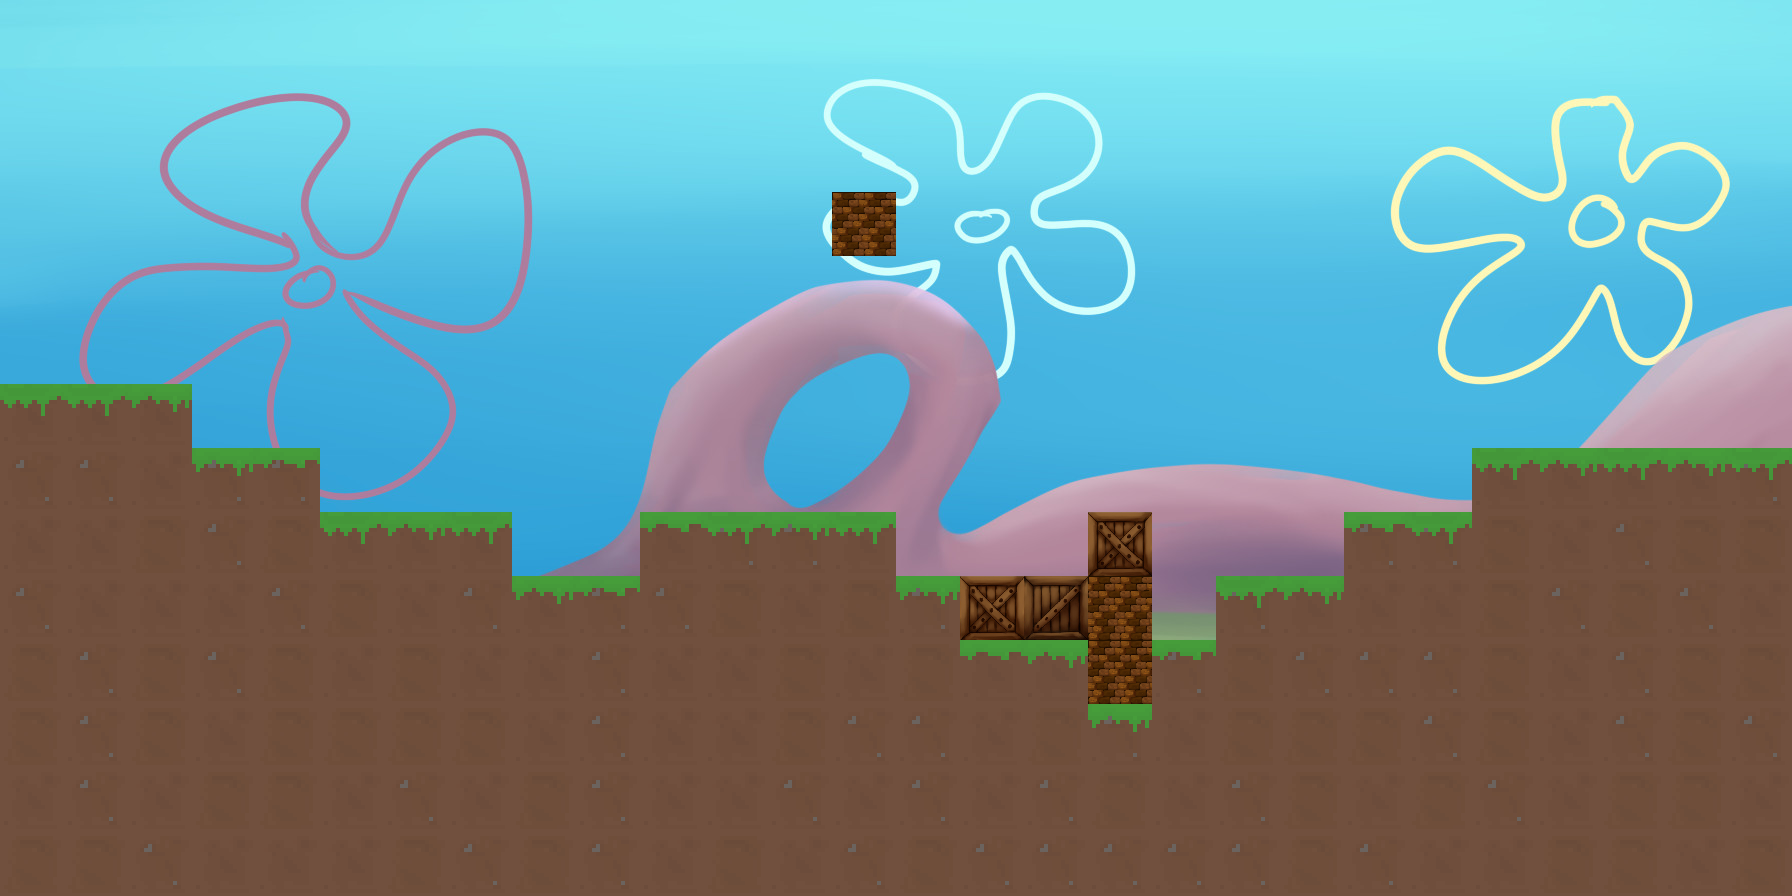
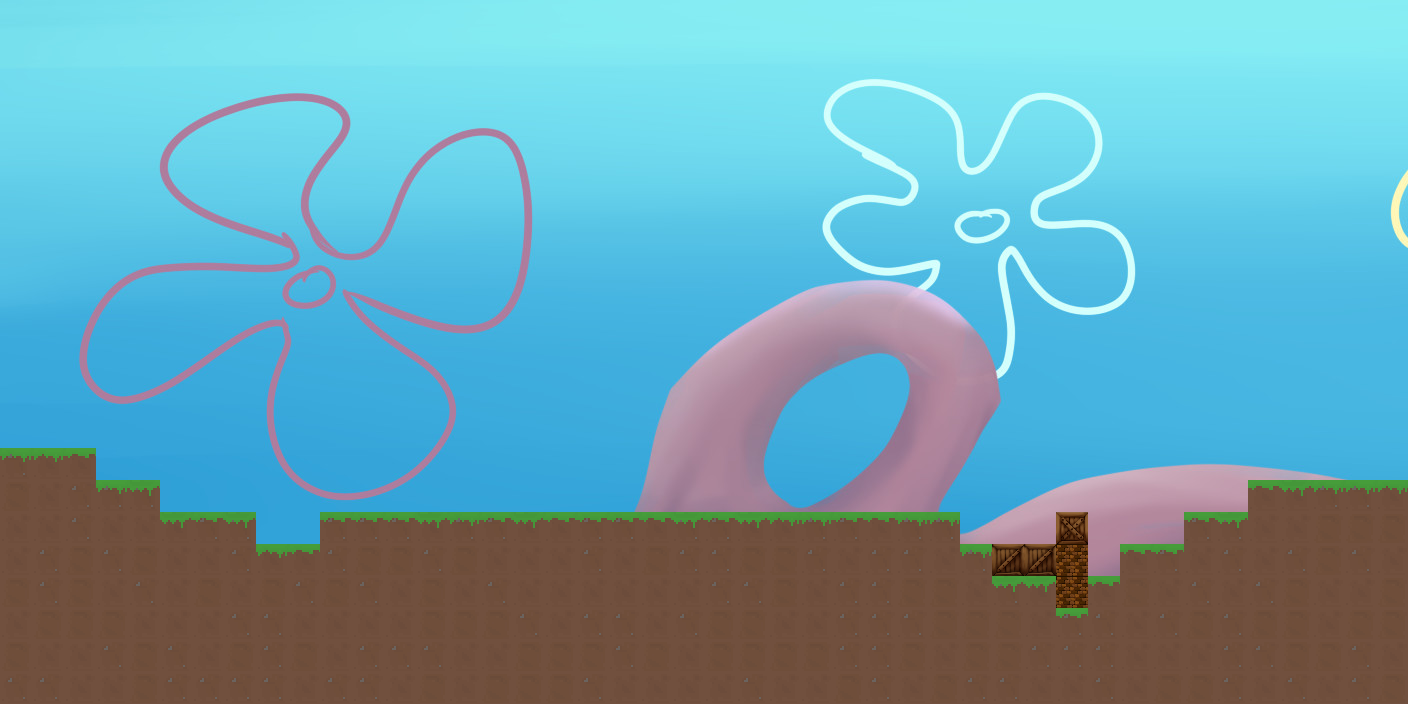
update(render): change map's size

diff --git a/resources/levels/1/map.py b/resources/levels/1/map.py
@@ -1,20 +1,27 @@
 players = {
-    1: (5, 0),
-    2: (6, 23)
+    1: (13, 0),
+    2: (14, 40)
 }
 
-layouts = [[0, 0, 0, 0, 0, 0, 0, 0, 0, 0, 0, 0, 0, 0, 0, 0, 0, 0, 0, 0, 0, 0, 0, 0, 0, 0, 0, 0],
-           [0, 0, 0, 0, 0, 0, 0, 0, 0, 0, 0, 0, 0, 0, 0, 0, 0, 0, 0, 0, 0, 0, 0, 0, 0, 0, 0, 0],
-           [0, 0, 0, 0, 0, 0, 0, 0, 0, 0, 0, 0, 0, 0, 0, 0, 0, 0, 0, 0, 0, 0, 0, 0, 0, 0, 0, 0],
-           [0, 0, 0, 0, 0, 0, 0, 0, 0, 0, 0, 0, 0, 3, 0, 0, 0, 0, 0, 0, 0, 0, 0, 0, 0, 0, 0, 0],
-           [0, 0, 0, 0, 0, 0, 0, 0, 0, 0, 0, 0, 0, 0, 0, 0, 0, 0, 0, 0, 0, 0, 0, 0, 0, 0, 0, 0],
-           [0, 0, 0, 0, 0, 0, 0, 0, 0, 0, 0, 0, 0, 0, 0, 0, 0, 0, 0, 0, 0, 0, 0, 0, 0, 0, 0, 0],
-           [2, 2, 2, 0, 0, 0, 0, 0, 0, 0, 0, 0, 0, 0, 0, 0, 0, 0, 0, 0, 0, 0, 0, 0, 0, 0, 0, 0],
-           [1, 1, 1, 2, 2, 0, 0, 0, 0, 0, 0, 0, 0, 0, 0, 0, 0, 0, 0, 0, 0, 0, 0, 2, 2, 2, 2, 2],
-           [1, 1, 1, 1, 1, 2, 2, 2, 0, 0, 2, 2, 2, 2, 0, 0, 0, 4, 0, 0, 0, 2, 2, 1, 1, 1, 1, 1],
-           [1, 1, 1, 1, 1, 1, 1, 1, 2, 2, 1, 1, 1, 1, 2, 4, 4, 3, 0, 2, 2, 1, 1, 1, 1, 1, 1, 1],
-           [1, 1, 1, 1, 1, 1, 1, 1, 1, 1, 1, 1, 1, 1, 1, 2, 2, 3, 2, 1, 1, 1, 1, 1, 1, 1, 1, 1],
-           [1, 1, 1, 1, 1, 1, 1, 1, 1, 1, 1, 1, 1, 1, 1, 1, 1, 2, 1, 1, 1, 1, 1, 1, 1, 1, 1, 1],
-           [1, 1, 1, 1, 1, 1, 1, 1, 1, 1, 1, 1, 1, 1, 1, 1, 1, 1, 1, 1, 1, 1, 1, 1, 1, 1, 1, 1],
-           [1, 1, 1, 1, 1, 1, 1, 1, 1, 1, 1, 1, 1, 1, 1, 1, 1, 1, 1, 1, 1, 1, 1, 1, 1, 1, 1, 1]]
-
+layouts = [[0, 0, 0, 0, 0, 0, 0, 0, 0, 0, 0, 0, 0, 0, 0, 0, 0, 0, 0, 0, 0, 0, 0, 0, 0, 0, 0, 0, 0, 0, 0, 0, 0, 0, 0, 0, 0, 0, 0, 0, 0, 0, 0, 0],
+           [0, 0, 0, 0, 0, 0, 0, 0, 0, 0, 0, 0, 0, 0, 0, 0, 0, 0, 0, 0, 0, 0, 0, 0, 0, 0, 0, 0, 0, 0, 0, 0, 0, 0, 0, 0, 0, 0, 0, 0, 0, 0, 0, 0],
+           [0, 0, 0, 0, 0, 0, 0, 0, 0, 0, 0, 0, 0, 0, 0, 0, 0, 0, 0, 0, 0, 0, 0, 0, 0, 0, 0, 0, 0, 0, 0, 0, 0, 0, 0, 0, 0, 0, 0, 0, 0, 0, 0, 0],
+           [0, 0, 0, 0, 0, 0, 0, 0, 0, 0, 0, 0, 0, 0, 0, 0, 0, 0, 0, 0, 0, 0, 0, 0, 0, 0, 0, 0, 0, 0, 0, 0, 0, 0, 0, 0, 0, 0, 0, 0, 0, 0, 0, 0],
+           [0, 0, 0, 0, 0, 0, 0, 0, 0, 0, 0, 0, 0, 0, 0, 0, 0, 0, 0, 0, 0, 0, 0, 0, 0, 0, 0, 0, 0, 0, 0, 0, 0, 0, 0, 0, 0, 0, 0, 0, 0, 0, 0, 0],
+           [0, 0, 0, 0, 0, 0, 0, 0, 0, 0, 0, 0, 0, 0, 0, 0, 0, 0, 0, 0, 0, 0, 0, 0, 0, 0, 0, 0, 0, 0, 0, 0, 0, 0, 0, 0, 0, 0, 0, 0, 0, 0, 0, 0],
+           [0, 0, 0, 0, 0, 0, 0, 0, 0, 0, 0, 0, 0, 0, 0, 0, 0, 0, 0, 0, 0, 0, 0, 0, 0, 0, 0, 0, 0, 0, 0, 0, 0, 0, 0, 0, 0, 0, 0, 0, 0, 0, 0, 0],
+           [0, 0, 0, 0, 0, 0, 0, 0, 0, 0, 0, 0, 0, 0, 0, 0, 0, 0, 0, 0, 0, 0, 0, 0, 0, 0, 0, 0, 0, 0, 0, 0, 0, 0, 0, 0, 0, 0, 0, 0, 0, 0, 0, 0],
+           [0, 0, 0, 0, 0, 0, 0, 0, 0, 0, 0, 0, 0, 0, 0, 0, 0, 0, 0, 0, 0, 0, 0, 0, 0, 0, 0, 0, 0, 0, 0, 0, 0, 0, 0, 0, 0, 0, 0, 0, 0, 0, 0, 0],
+           [0, 0, 0, 0, 0, 0, 0, 0, 0, 0, 0, 0, 0, 0, 0, 0, 0, 0, 0, 0, 0, 0, 0, 0, 0, 0, 0, 0, 0, 0, 0, 0, 0, 0, 0, 0, 0, 0, 0, 0, 0, 0, 0, 0],
+           [0, 0, 0, 0, 0, 0, 0, 0, 0, 0, 0, 0, 0, 0, 0, 0, 0, 0, 0, 0, 0, 0, 0, 0, 0, 0, 0, 0, 0, 0, 0, 0, 0, 0, 0, 0, 0, 0, 0, 0, 0, 0, 0, 0],
+           [0, 0, 0, 0, 0, 0, 0, 0, 0, 0, 0, 0, 0, 0, 0, 0, 0, 0, 0, 0, 0, 0, 0, 0, 0, 0, 0, 0, 0, 0, 0, 0, 0, 0, 0, 0, 0, 0, 0, 0, 0, 0, 0, 0],
+           [0, 0, 0, 0, 0, 0, 0, 0, 0, 0, 0, 0, 0, 0, 0, 0, 0, 0, 0, 0, 0, 0, 0, 0, 0, 0, 0, 0, 0, 0, 0, 0, 0, 0, 0, 0, 0, 0, 0, 0, 0, 0, 0, 0],
+           [0, 0, 0, 0, 0, 0, 0, 0, 0, 0, 0, 0, 0, 0, 0, 0, 0, 0, 0, 0, 0, 0, 0, 0, 0, 0, 0, 0, 0, 0, 0, 0, 0, 0, 0, 0, 0, 0, 0, 0, 0, 0, 0, 0],
+           [2, 2, 2, 0, 0, 0, 0, 0, 0, 0, 0, 0, 0, 0, 0, 0, 0, 0, 0, 0, 0, 0, 0, 0, 0, 0, 0, 0, 0, 0, 0, 0, 0, 0, 0, 0, 0, 0, 0, 0, 0, 0, 0, 0],
+           [1, 1, 1, 2, 2, 0, 0, 0, 0, 0, 0, 0, 0, 0, 0, 0, 0, 0, 0, 0, 0, 0, 0, 0, 0, 0, 0, 0, 0, 0, 0, 0, 0, 0, 0, 0, 0, 0, 0, 2, 2, 2, 2, 2],
+           [1, 1, 1, 1, 1, 2, 2, 2, 0, 0, 2, 2, 2, 2, 2, 2, 2, 2, 2, 2, 2, 2, 2, 2, 2, 2, 2, 2, 2, 2, 0, 0, 0, 4, 0, 0, 0, 2, 2, 1, 1, 1, 1, 1],
+           [1, 1, 1, 1, 1, 1, 1, 1, 2, 2, 1, 1, 1, 1, 1, 1, 1, 1, 1, 1, 1, 1, 1, 1, 1, 1, 1, 1, 1, 1, 2, 4, 4, 3, 0, 2, 2, 1, 1, 1, 1, 1, 1, 1],
+           [1, 1, 1, 1, 1, 1, 1, 1, 1, 1, 1, 1, 1, 1, 1, 1, 1, 1, 1, 1, 1, 1, 1, 1, 1, 1, 1, 1, 1, 1, 1, 2, 2, 3, 2, 1, 1, 1, 1, 1, 1, 1, 1, 1],
+           [1, 1, 1, 1, 1, 1, 1, 1, 1, 1, 1, 1, 1, 1, 1, 1, 1, 1, 1, 1, 1, 1, 1, 1, 1, 1, 1, 1, 1, 1, 1, 1, 1, 2, 1, 1, 1, 1, 1, 1, 1, 1, 1, 1],
+           [1, 1, 1, 1, 1, 1, 1, 1, 1, 1, 1, 1, 1, 1, 1, 1, 1, 1, 1, 1, 1, 1, 1, 1, 1, 1, 1, 1, 1, 1, 1, 1, 1, 1, 1, 1, 1, 1, 1, 1, 1, 1, 1, 1],
+           [1, 1, 1, 1, 1, 1, 1, 1, 1, 1, 1, 1, 1, 1, 1, 1, 1, 1, 1, 1, 1, 1, 1, 1, 1, 1, 1, 1, 1, 1, 1, 1, 1, 1, 1, 1, 1, 1, 1, 1, 1, 1, 1, 1]]

diff --git a/main.py b/main.py
@@ -12,7 +12,7 @@ def main():
     clock = pg.time.Clock()
 
     level = 1
-    turn = 1
+    turn = 2
 
     screen = pg.display.set_mode(SCREENRECT.size)
 
@@ -21,26 +21,26 @@ def main():
             -1: pg.transform.flip(
                 pg.transform.scale(
                     pg.image.load(f"resources/sprites/player/patrick/body.png").convert_alpha(),
-                    (128, 128)
+                    (PLAYER_WIDTH, PLAYER_HEIGHT)
                 ),
                 True, False
             ),
             1: pg.transform.scale(
                 pg.image.load(f"resources/sprites/player/patrick/body.png").convert_alpha(),
-                (128, 128)
+                (PLAYER_WIDTH, PLAYER_HEIGHT)
             )
         },
         'bob': {
             -1: pg.transform.flip(
                 pg.transform.scale(
                     pg.image.load(f"resources/sprites/player/bob/body.png").convert_alpha(),
-                    (128, 128)
+                    (PLAYER_WIDTH, PLAYER_HEIGHT)
                 ),
                 True, False
             ),
             1: pg.transform.scale(
                 pg.image.load(f"resources/sprites/player/bob/body.png").convert_alpha(),
-                (128, 128)
+                (PLAYER_WIDTH, PLAYER_HEIGHT)
             )
         },
     }
@@ -53,7 +53,7 @@ def main():
     for i in range(-4, 15, 2):
         loaded_img = pg.transform.scale(
             pg.image.load(f"resources/sprites/player/patrick/arm/{i}.png").convert_alpha(),
-            (128, 128)
+            (PLAYER_WIDTH, PLAYER_HEIGHT)
         )
 
         img['patrick'][-1][i] = pg.transform.flip(loaded_img, True, False)
@@ -61,7 +61,7 @@ def main():
 
         loaded_img = pg.transform.scale(
             pg.image.load(f"resources/sprites/player/bob/arm/{i}.png").convert_alpha(),
-            (128, 128)
+            (PLAYER_WIDTH, PLAYER_HEIGHT)
         )
 
         img['bob'][-1][i] = pg.transform.flip(loaded_img, True, False)

diff --git a/objects/world.py b/objects/world.py
@@ -11,8 +11,8 @@ class World:
         self.tile_width = TILE_WIDTH
         self.tile_height = TILE_HEIGHT
 
-        self.size_tiles_x_world = 28
-        self.size_tiles_y_world = 14
+        self.size_tiles_x_world = SIZE_X_WORLD
+        self.size_tiles_y_world = SIZE_Y_WORLD
 
         self.screen_width = self.tile_width * self.size_tiles_x_world
         self.screen_height = self.tile_height * self.size_tiles_y_world

diff --git a/objects/constants.py b/objects/constants.py
@@ -1,6 +1,11 @@
 import pygame as pg
 
-SCREENRECT = pg.Rect(0, 0, 1792, 896)
-TILE_WIDTH = 64
-TILE_HEIGHT = 64
+TILE_WIDTH = 32
+TILE_HEIGHT = 32
+SIZE_X_WORLD = 44
+SIZE_Y_WORLD = 22
+SCREENRECT = pg.Rect(0, 0, TILE_WIDTH * SIZE_X_WORLD, TILE_HEIGHT * SIZE_Y_WORLD)
 TILES_PATH = "resources/sprites/tiles"
+
+PLAYER_WIDTH = 128
+PLAYER_HEIGHT = 128

diff --git a/objects/weapons.py b/objects/weapons.py
@@ -85,7 +85,7 @@ class Bullet(pg.sprite.Sprite):
         for tile in self.world:
             rect = pg.Rect(tile[0], tile[1], TILE_WIDTH, TILE_HEIGHT)
 
-            if rect.colliderect(self.rect):
+            if rect.collidepoint(self.x, self.y + 20):
                 pg.time.wait(1000)
                 self.kill()
 
